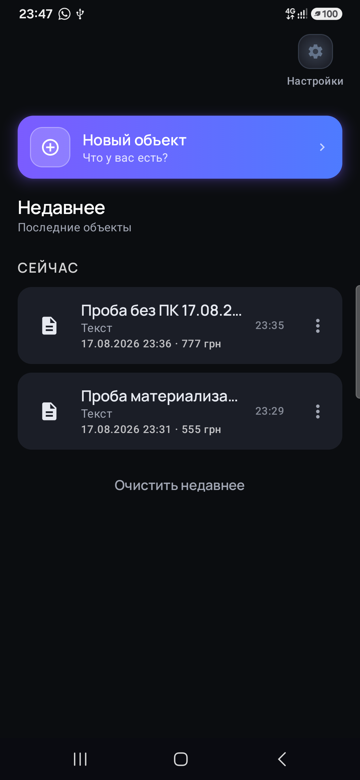
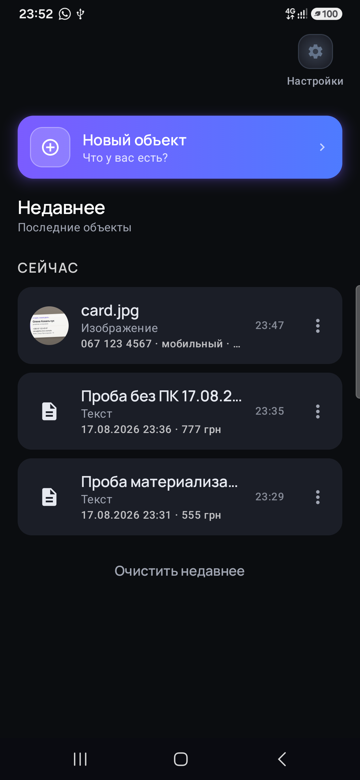
docs: #967 repair — AND-094 PASS (у скана поиск не предлагается) (#967)

diff --git a/docs/audits/live-review-967-coverage.md b/docs/audits/live-review-967-coverage.md
@@ -264,7 +264,7 @@ NO DIFFERENTIATING FACTOR
 | AND-091 | Android | ShareActivity | FirstScreen | телефон | UNKNOWN | объект помечен негодным (unusable.reason) | просмотр предложенного после отказа | read · ocr · scan-plus · ai | BubblePolicy | любая | негодность не закрывает путь чтения | нет перехода: читать нечего | FAIL | эмулятор 14.08, truncated.jpg: дважды сказано «файл не открылся», и тут же первым действием «Понять — найдёт суть, суммы, даты и контакты»; подпись облачного действия вернулась к «снимок уйдёт в сервис» вопреки DEVICE_ONLY | #994 |
 | AND-092 | Android | ShareActivity | SearchScreen («Найти в документе») | телефон | IMAGE (длинный кадр 1080×7200) | запрос есть в кадре | найти | search | локальный OCR-слой | офлайн | метка встала не на строку попадания (#1013) | N/A (визуальное: метка и число мест) | FAIL | телефон владельца A34, APK 0.3.0 debug, main bead432; 17.08.2026 21:22–21:26, сеть есть. SEND image/png long.png (скриншот 1080×7200, 119 адресов почты): приём → «Распознаю текст…» → «Нашёл · 119», экран объекта = 119 строк «testerN@example.com · Почта» подряд; действия («Понять», «Прочитать сильнее», «В Excel», «На компьютер») достижимы только после ~20 прокруток; **действия «Найти в документе» в дереве экрана нет вовсе** (uiautomator dump), хотя 14.08 на этом же файле оно было и находило OR-01099 (#1013). Граф 1 узел, 119 сущностей Email (evidence/2026-08-17-s4/AND-092-graph.txt, AND-092-after-read-graph.txt, AND-092.png, AND-092-after-read.png, AND-092-actions.png, AND-092-extract.png) | #1104 |
 | AND-093 | Android | ShareActivity | SearchScreen | телефон | TEXT / PDF с текстовым слоем | запрос встречается несколько раз | найти | search | текстовый слой | офлайн | число мест или порядок неверны | N/A (визуальное) | PASS | телефон владельца A34, APK 0.3.0 debug, main bead432; 17.08.2026 23:49, сеть есть. card.jpg (визитка, текст прочитан локально) → «Найти в документе» → экран «НАЙТИ В ДОКУМЕНТЕ · Что найти · Закрыть» → запрос «olena» → «**Нашлось 1 место**», метка встала точно на строку «olena@tihiy-dvor.example» на самом кадре (evidence/2026-08-17-s4/AND-093-search-screen.png, AND-093-found.png, AND-093-marker.png). Число мест и точность метки верны. Клетка про длинный кадр (AND-092) остаётся FAIL: там действия нет вовсе (#1104) | — |
-| AND-094 | Android | ShareActivity | SearchScreen | телефон | PDF без текстового слоя (скан) | запрос есть на странице | найти | search | — | офлайн | «не найдено» вместо «нечем искать» | Investigation State остаётся not investigated | BLOCKED | то же: без доступного экрана поиска сценарий «PDF без текстового слоя» не пройти | #1104 |
+| AND-094 | Android | ShareActivity | SearchScreen | телефон | PDF без текстового слоя (скан) | запрос есть на странице | найти | search | — | офлайн | «не найдено» вместо «нечем искать» | Investigation State остаётся not investigated | PASS | телефон владельца A34, APK 0.3.0 debug, main bead432; 17.08.2026 23:52. dve-stranicy.pdf (скан без текстового слоя, `investigated.pdf-image-shape=found`): Point заранее говорит «**Это скан — текст не выделяется**», и действия «Найти в документе» не предлагает вовсе (полный список снят uiautomator: Перевести, AI, Дать ссылку, В Excel, В Word, В Word+, Страницы, Открыть, На компьютер, Сохранить, Поделиться). То есть «не найдено» вместо «нечем искать» не возникает — поиск не предлагается там, где искать нечем; знание в not investigated не переведено (evidence/2026-08-17-s4/AND-094-pdf-scan.png, AND-094-graph.txt) | — |
 | AND-095 | Android | ShareActivity | SearchScreen | телефон | любой | запроса в документе нет | найти | search | — | офлайн | найдено то, чего нет | N/A (визуальное) | PASS | телефон владельца A34, APK 0.3.0 debug, main bead432; 17.08.2026 23:49, сеть есть. Тот же экран поиска, запрос «zzqq77» (в документе отсутствует) → «**Ничего не нашлось**», метки нет, найденного нет — выдумки нет (evidence/2026-08-17-s4/AND-095-not-found.png) | — |
 | AND-096 | Android | ShareActivity | FirstScreen | телефон | IMAGE (чек с американским номером) | телефон без кода страны | просмотр показанного значения | — | показ значения (форматирование) | офлайн | показанное искажено при верном хранении (+49 …, #1029) | N/A (визуальное: хранение верное, показ отдельно) | FAIL | телефон владельца A34, APK 0.3.0 debug (14.08 17:42), main bead432; 17.08.2026 16:52, сеть есть. SEND image/jpeg chek.jpg (чек Family Dollar, американский номер): в графе entity.phone=918-682-1551 (хранение верное), на экране «+49 9186 821551 · Телефон» — показанное значение искажено (evidence/2026-08-17-s4/AND-096-graph-after-ingest.txt, AND-096-chek.jpg.png) | #1029 |
 | AND-097 | Android | ShareActivity | FirstScreen | телефон | IMAGE (чек) | товарный код / сумма / дата | просмотр показанного значения | — | показ значения | офлайн | число показано телефоном или датой (#1029, BCE-004) | N/A (визуальное) | FAIL | телефон владельца A34, APK 0.3.0 debug, main bead432; 17.08.2026 22:07, сеть есть, YOLO. chek.jpg → «Понять»: главный факт под галочкой — «**Сумма TAX1**» (в графе `entity.amount='TAX1'`, `ev=semantic,structural`, `src=ocr`), при том что настоящие числа лежат рядом в `entity.amount.more='2.00 / 0.18 / 2.18'`; в списке «Нашёл · 5» числа «2.00» и «0.18» показаны как «Объект · прочитано» (вид сущности не назван), итог 2.18 не показан; сводка по-английски «Family Dollar receipt for drinks» (#1036). Показанное значение — не то, что есть в объекте (evidence/2026-08-17-s4/AND-097-graph.txt, AND-097-after-understand-graph.txt, AND-097-after-understand.png) | #1059, #1006 |
